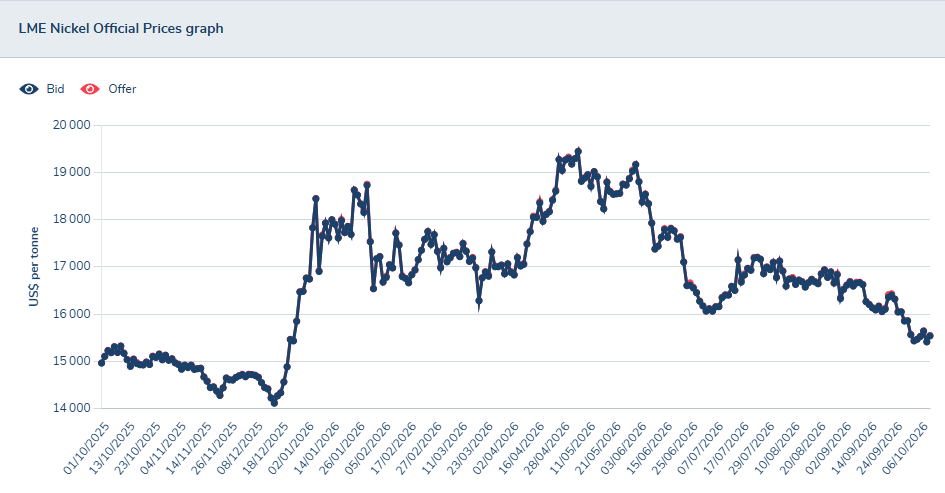
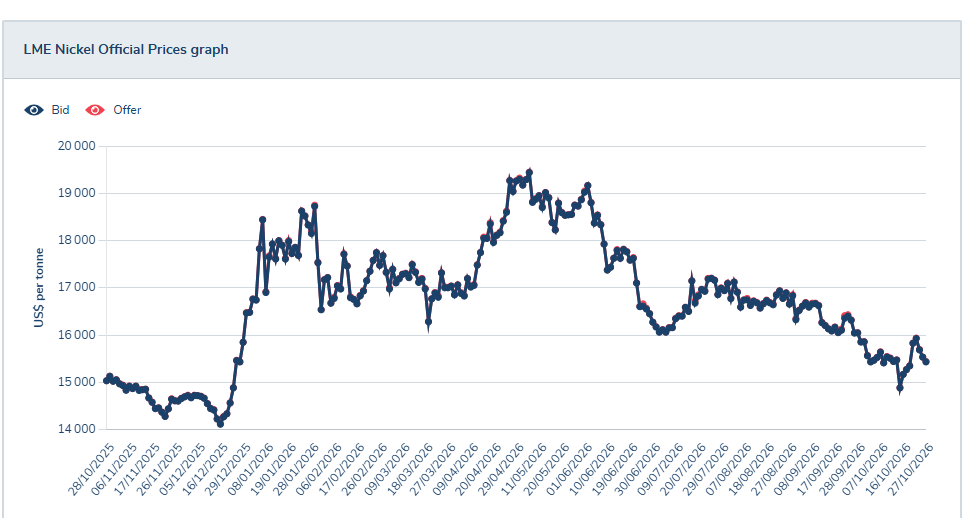
Indicateurs de marché : nickel LME mis à jour (cours au 27.10.2026), date de révision 28.10.2026
Claude-Session: https://claude.ai/code/session_016aozrDweoiigfqF25TdjzY

diff --git a/public/catalogue.html b/public/catalogue.html
@@ -3670,7 +3670,7 @@ function renderMarketIndexDetail(data,current,diesel,canplast,brent,eurchf,usdch
     kbob:{upd:kbobLast(current),src:KBOB_SRC}, gaz:{upd:kbobLast('Gaz (artisanat, industries, services)'),src:KBOB_SRC}, elec:{upd:kbobLast('Electricité (artisanat, industries, services)'),src:KBOB_SRC},
     astag:{upd:dieselLast?'semaine du '+dateFR(dieselLast.weekStart):null,src:'ASTAG — prix moyen hebdomadaire du diesel'},
     corr:{upd:dieselLast?'semaine du '+dateFR(dieselLast.weekStart):null,src:'ASTAG et Brent'},
-    alu:{upd:'mis à jour le 28.10.2026 (cours au 27.10.2026)',src:'LME — Aluminium Official Prices'}, cuivre:{upd:'mis à jour le 28.10.2026 (cours au 27.10.2026)',src:'LME — Copper Official Prices'}, nickel:{upd:CAPT,src:'LME'}, zinc:{upd:'mis à jour le 28.10.2026 (cours au 27.10.2026)',src:'LME — Zinc Official Prices'}, ferraille:{upd:CAPT,src:'Platts'}, hrc:{upd:CAPT,src:'Argus'}, rebar:{upd:CAPT,src:'Platts'},
+    alu:{upd:'mis à jour le 28.10.2026 (cours au 27.10.2026)',src:'LME — Aluminium Official Prices'}, cuivre:{upd:'mis à jour le 28.10.2026 (cours au 27.10.2026)',src:'LME — Copper Official Prices'}, nickel:{upd:'mis à jour le 28.10.2026 (cours au 27.10.2026)',src:'LME — Nickel Official Prices'}, zinc:{upd:'mis à jour le 28.10.2026 (cours au 27.10.2026)',src:'LME — Zinc Official Prices'}, ferraille:{upd:CAPT,src:'Platts'}, hrc:{upd:CAPT,src:'Argus'}, rebar:{upd:CAPT,src:'Platts'},
     acier:{upd:lastOf(acier.dates)?'relevé du '+dateFR(lastOf(acier.dates)):null,src:'Aurélien (Achats)'},
     brent:{upd:lastOf(brentDatesAll)?'semaine du '+dateFR(lastOf(brentDatesAll)):null,src:'Brent Crude Oil — clôtures hebdomadaires'},
     eurchf:{upd:lastOf(eDatesAll)?'semaine du '+dateFR(lastOf(eDatesAll)):null,src:'EUR/CHF spot — clôtures hebdomadaires'},
@@ -3714,7 +3714,7 @@ const mktSummaryRows=
 
   const panelCuivre=`<div id="mkt-cuivre" class="marketDetailPanel" ${mktHidden('cuivre')}><div class="analysisBlock" style="margin-top:18px"><h3>🟠 Cuivre (LME)</h3><p class="muted">Cours LME Cuivre (USD/tonne), du 28.10.2025 au 27.10.2026 — <b>mis à jour le 28.10.2026</b> (capture LME, pas encore intégré comme série de données exploitable dans l'outil).</p><img src="/market_charts/cuivre.png?v=20261028" style="max-width:100%;border:1px solid #e5e9ef;border-radius:8px" alt="Cuivre (LME)"></div></div>`;
 
-  const panelNickel=`<div id="mkt-nickel" class="marketDetailPanel" ${mktHidden('nickel')}><div class="analysisBlock" style="margin-top:18px"><h3>⚙ Nickel (LME)</h3><p class="muted">Cours LME Nickel (USD/tonne) — capture fournie, pas encore intégré comme série de données exploitable dans l'outil.</p><img src="/market_charts/nickel.png" style="max-width:100%;border:1px solid #e5e9ef;border-radius:8px" alt="Nickel (LME)"></div></div>`;
+  const panelNickel=`<div id="mkt-nickel" class="marketDetailPanel" ${mktHidden('nickel')}><div class="analysisBlock" style="margin-top:18px"><h3>⚙ Nickel (LME)</h3><p class="muted">Cours LME Nickel (USD/tonne), du 28.10.2025 au 27.10.2026 — <b>mis à jour le 28.10.2026</b> (capture LME, pas encore intégré comme série de données exploitable dans l'outil).</p><img src="/market_charts/nickel.png?v=20261028" style="max-width:100%;border:1px solid #e5e9ef;border-radius:8px" alt="Nickel (LME)"></div></div>`;
 
   const panelZinc=`<div id="mkt-zinc" class="marketDetailPanel" ${mktHidden('zinc')}><div class="analysisBlock" style="margin-top:18px"><h3>⬜ Zinc (LME)</h3><p class="muted">Cours LME Zinc (USD/tonne), du 28.10.2025 au 27.10.2026 — <b>mis à jour le 28.10.2026</b> (capture LME, pas encore intégré comme série de données exploitable dans l'outil).</p><img src="/market_charts/zinc.png?v=20261028" style="max-width:100%;border:1px solid #e5e9ef;border-radius:8px" alt="Zinc (LME)"></div></div>`;
 
